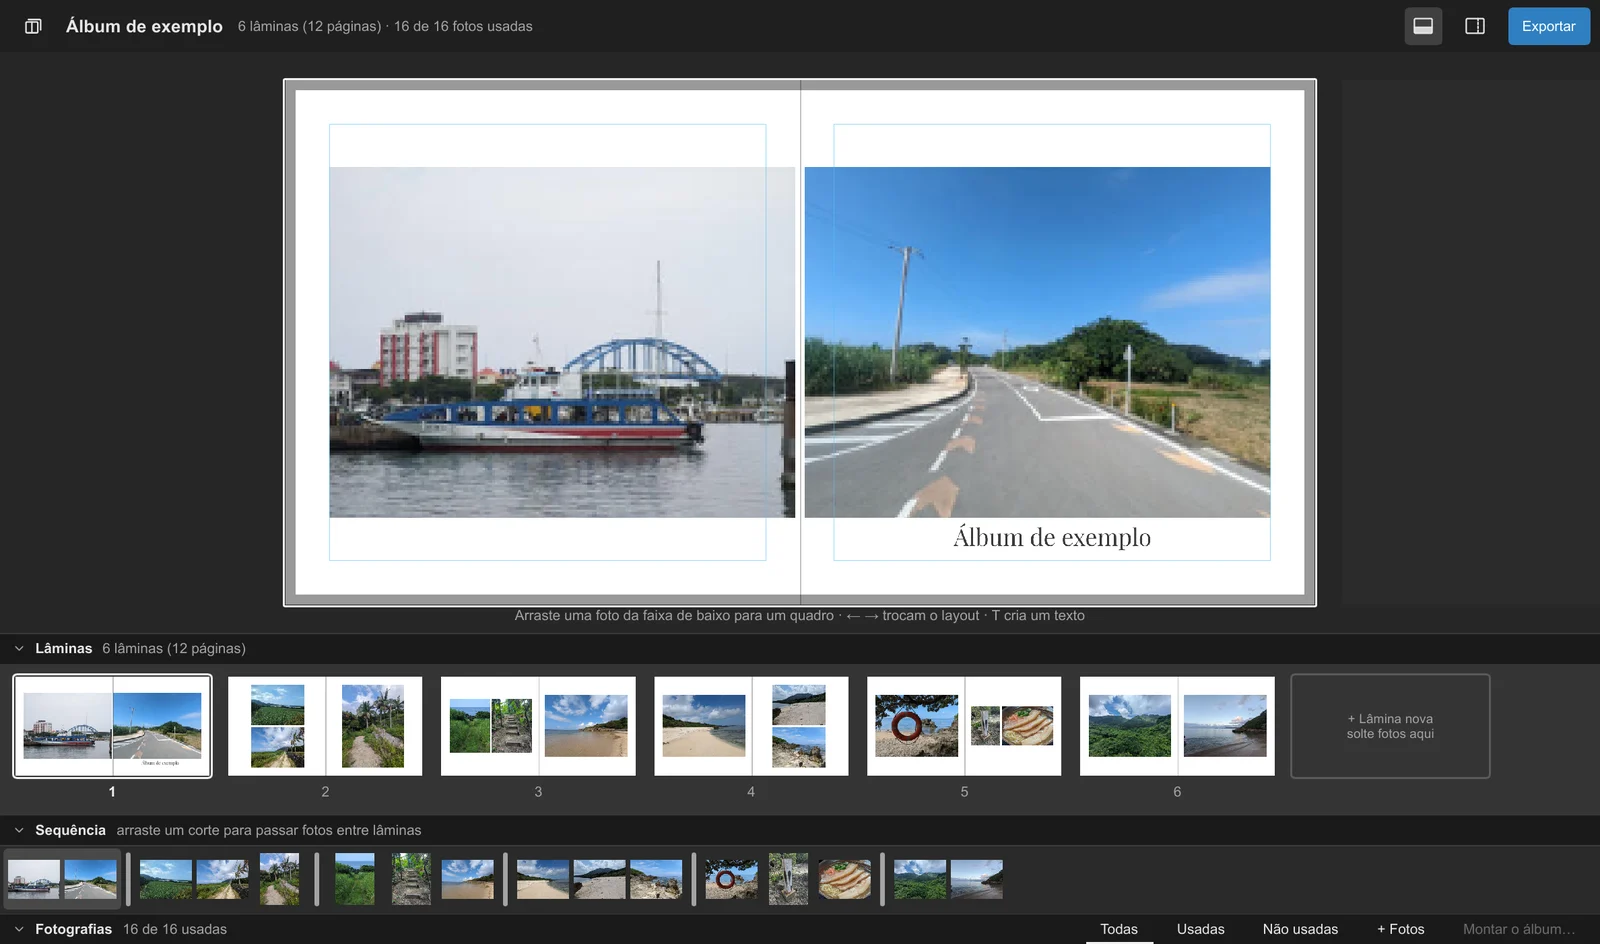
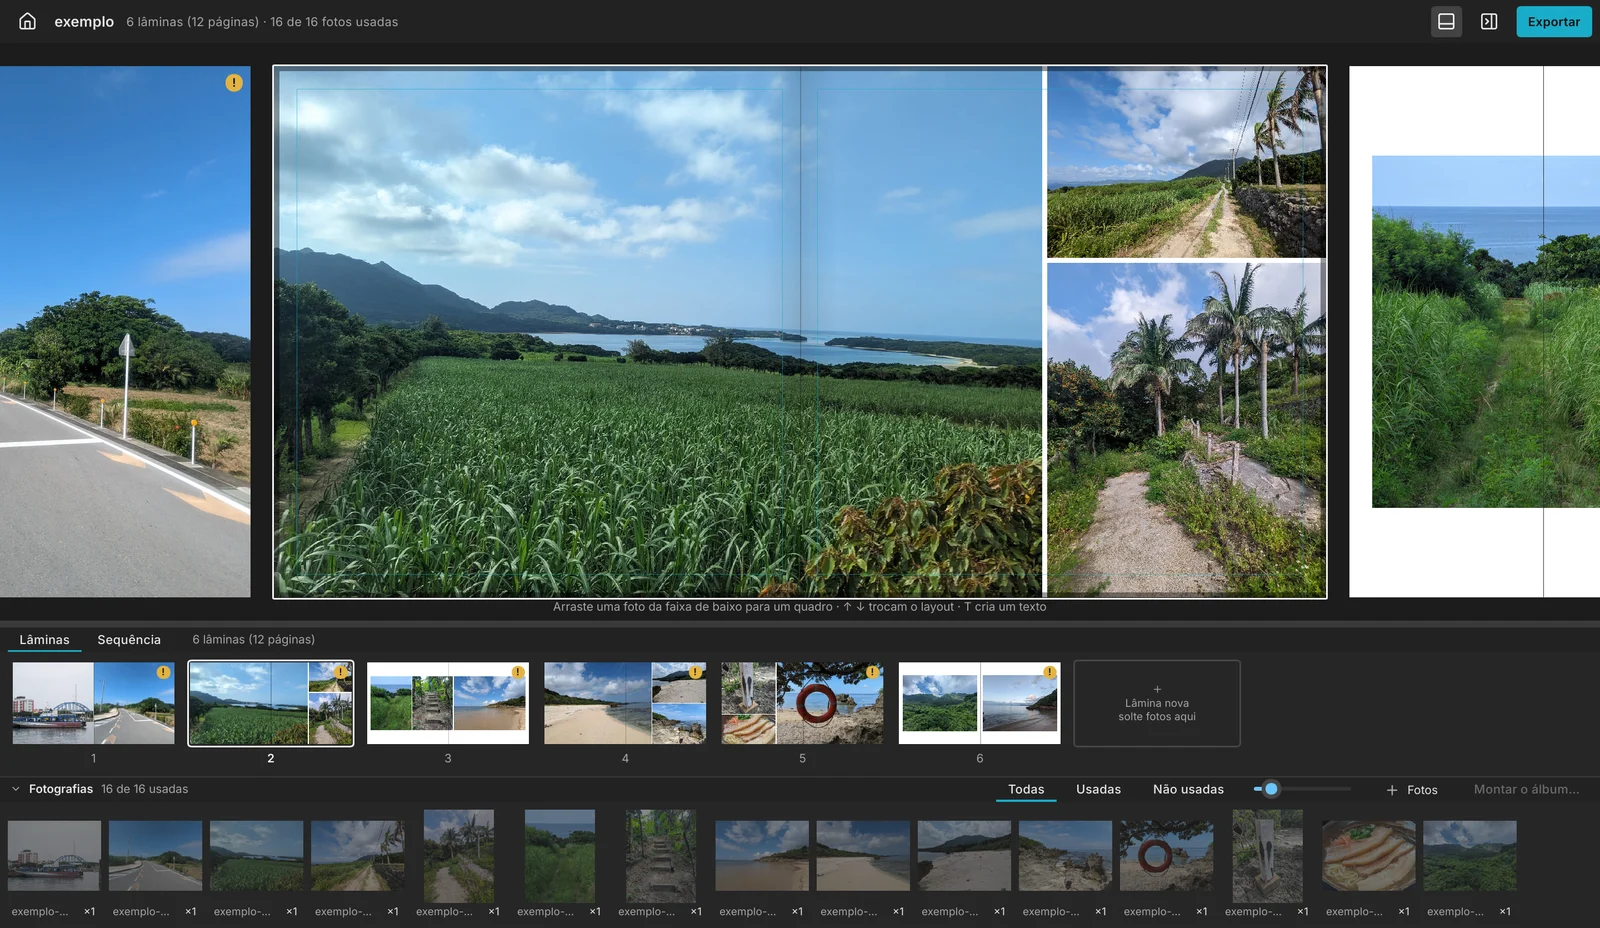
docs(VP): site e README com as telas e os textos da beta 8

diff --git a/site/index.html b/site/index.html
@@ -53,7 +53,7 @@
           cliques que liberam.</a></p>
       </div>
       <figure class="corte capa-midia">
-        <img src="midia/diagramar.webp" width="1200" height="708" alt="O Lamina com o álbum de exemplo: as lâminas passam e o layout de cada uma muda pelas setas">
+        <img src="midia/diagramar.webp" width="1200" height="696" alt="O Lamina com o álbum de exemplo: as lâminas passam e o layout de cada uma muda pelas setas">
       </figure>
     </section>
 
@@ -64,7 +64,8 @@
         <div>
           <h3>Layouts feitos para as suas fotos</h3>
           <p>Cada layout é calculado pela proporção de cada foto: nada de biblioteca fixa de
-            modelos, nada de cortar foto sem necessidade. <kbd>↑</kbd> e <kbd>↓</kbd> trocam de layout, <kbd>E</kbd>
+            modelos. As opções com as fotos maiores vêm primeiro, inclusive sem borda, e você escolhe
+            quanto o Lamina pode cortar. <kbd>↑</kbd> e <kbd>↓</kbd> trocam de layout, <kbd>E</kbd>
             espelha, <kbd>F</kbd> favorita e <kbd>L</kbd> mostra todas as opções de uma vez.</p>
         </div>
       </div>
@@ -116,12 +117,12 @@
       <h2>Por dentro do Lamina</h2>
       <p class="secao-lead">Telas do programa de verdade, com o álbum de exemplo que vem junto (fotos livres, CC0).</p>
       <div class="galeria" tabindex="0" aria-label="Telas do Lamina; role para o lado">
-        <figure><img src="midia/tela-album.webp" width="1600" height="944" alt="O álbum aberto, com a lâmina grande e as faixas embaixo" loading="lazy"><figcaption><b>O álbum inteiro à vista.</b> A lâmina grande em cima; embaixo, lâminas, sequência e fotos.</figcaption></figure>
+        <figure><img src="midia/tela-album.webp" width="1600" height="928" alt="O álbum aberto, com a lâmina grande até a borda e as faixas embaixo" loading="lazy"><figcaption><b>O álbum inteiro à vista.</b> A lâmina grande em cima; embaixo, lâminas e sequência em abas, e as fotos.</figcaption></figure>
         <figure><img src="midia/faixa-de-layouts.webp" width="960" height="720" alt="A faixa de layouts com as opções e a nota de cada uma" loading="lazy"><figcaption><b>Faixa de layouts.</b> Todas as opções para as fotos da lâmina, com nota.</figcaption></figure>
-        <figure><img src="midia/tela-foto.webp" width="1600" height="944" alt="A foto selecionada com a temperatura mais quente" loading="lazy"><figcaption><b>Ajustes da foto.</b> Girar, escala, brilho, contraste, temperatura e matiz.</figcaption></figure>
-        <figure><img src="midia/tela-organizar.webp" width="1600" height="944" alt="O modo organizar com régua e ferramentas" loading="lazy"><figcaption><b>Modo organizar.</b> Régua, lupa, 1:1, espaço entre fotos, fundo e bordas.</figcaption></figure>
-        <figure><img src="midia/tela-exportar.webp" width="1600" height="944" alt="A exportação com JPEG, PDF/X-4 e TIFF" loading="lazy"><figcaption><b>Exportar.</b> JPEG 95, PDF/X-4 ou TIFF sem perda.</figcaption></figure>
-        <figure><img src="midia/tela-recuperar.webp" width="1600" height="944" alt="A pergunta Recuperar as alterações" loading="lazy"><figcaption><b>Nada se perde.</b> Depois de uma queda, o Lamina pergunta se quer recuperar.</figcaption></figure>
+        <figure><img src="midia/tela-foto.webp" width="1600" height="928" alt="Uma foto selecionada, com os controles de ajuste no painel ao lado" loading="lazy"><figcaption><b>Ajustes da foto.</b> Girar, escala, brilho, contraste, temperatura e matiz, no painel ao lado.</figcaption></figure>
+        <figure><img src="midia/tela-organizar.webp" width="1600" height="928" alt="O modo organizar com régua e ferramentas" loading="lazy"><figcaption><b>Modo organizar.</b> Régua, lupa, 1:1, espaço entre fotos, fundo e bordas.</figcaption></figure>
+        <figure><img src="midia/tela-exportar.webp" width="1600" height="928" alt="A exportação com JPEG, PDF/X-4 e TIFF" loading="lazy"><figcaption><b>Exportar.</b> JPEG 95, PDF/X-4 ou TIFF sem perda.</figcaption></figure>
+        <figure><img src="midia/tela-recuperar.webp" width="1600" height="928" alt="A pergunta Recuperar as alterações" loading="lazy"><figcaption><b>Nada se perde.</b> Depois de uma queda, o Lamina pergunta se quer recuperar.</figcaption></figure>
         <figure><img src="midia/tela-inicial.webp" width="1600" height="646" alt="A tela inicial com os álbuns recentes" loading="lazy"><figcaption><b>Tela inicial.</b> Os álbuns recentes e o álbum de exemplo.</figcaption></figure>
       </div>
     </section>
